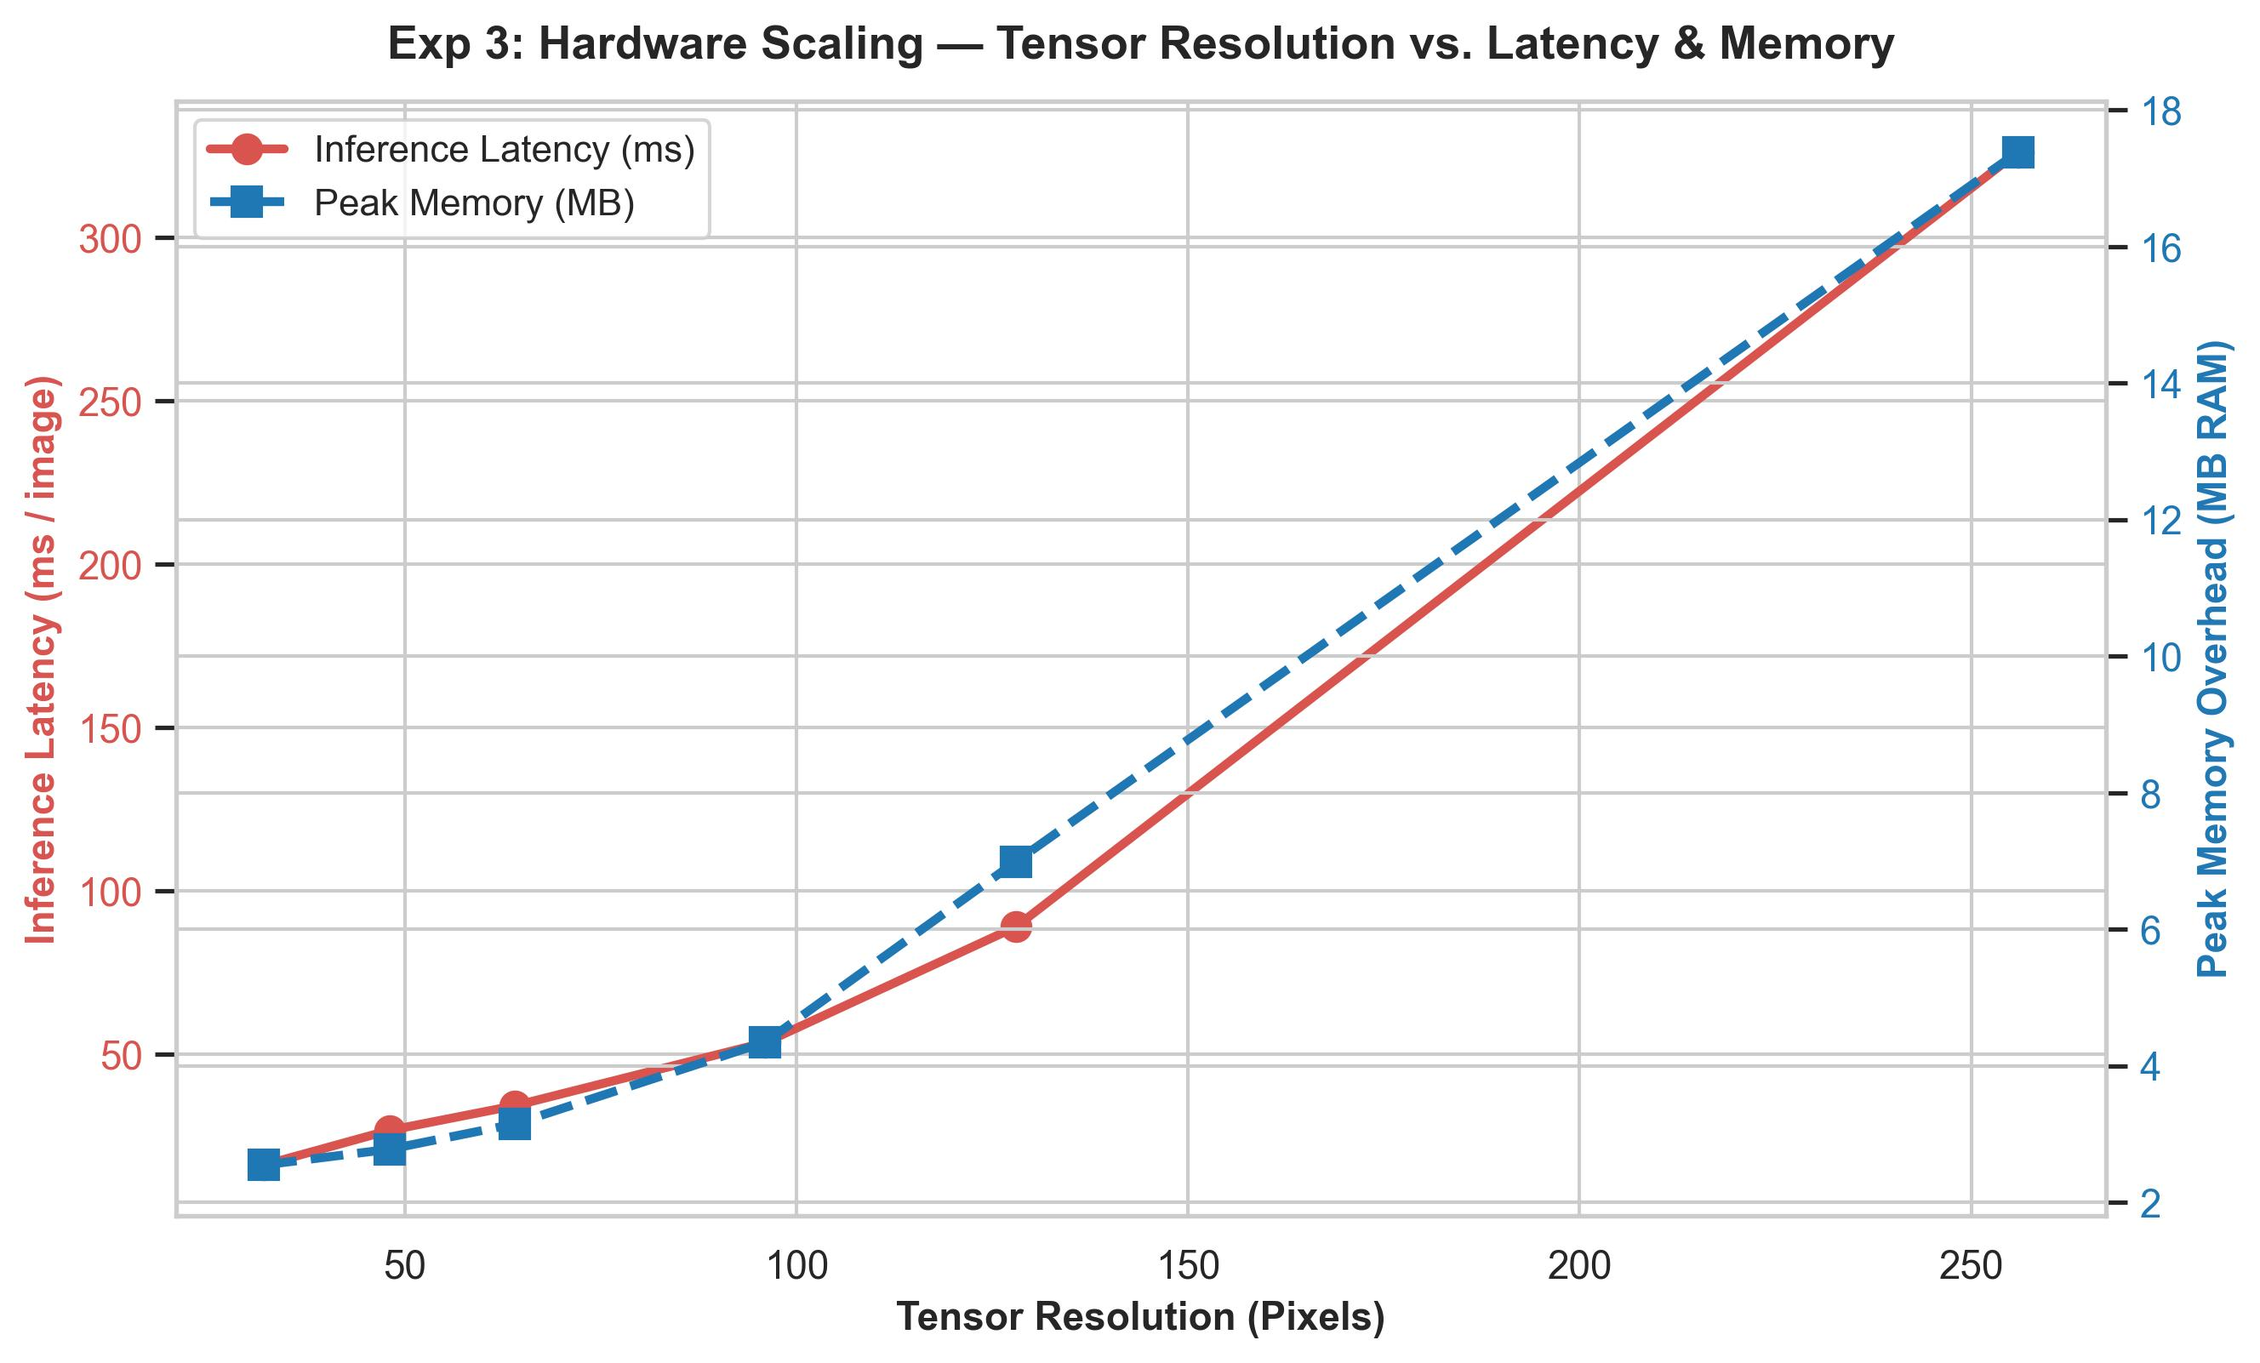
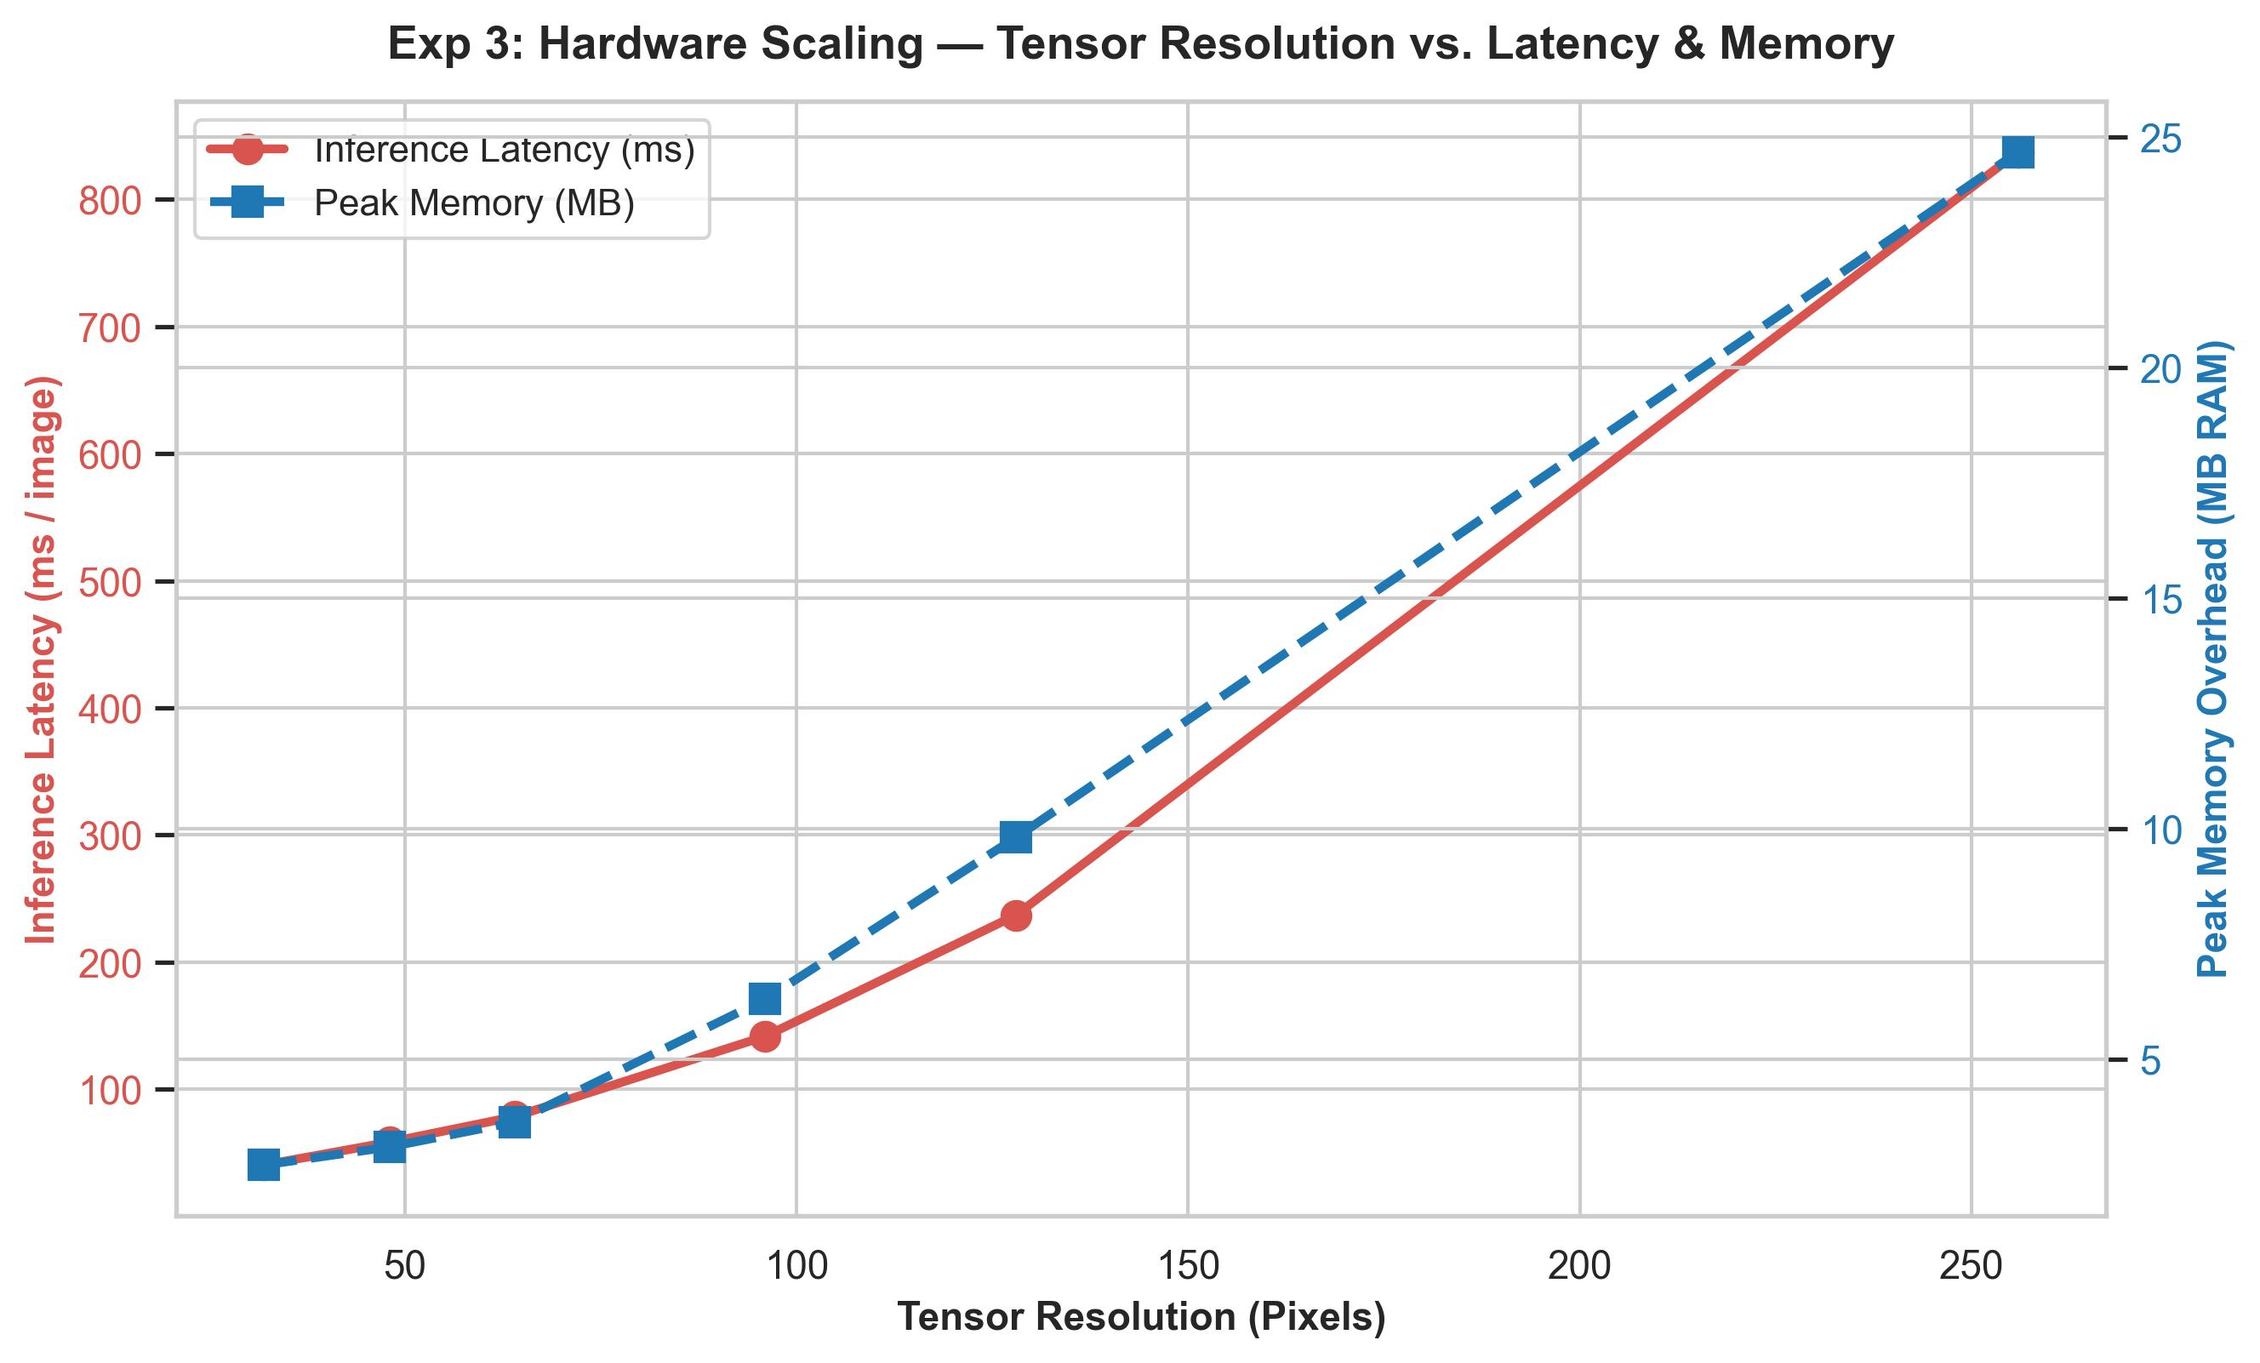
Execute full Q1 test suite with L1 Lasso feature selection and 50 PCA components

diff --git a/core_pipeline.py b/core_pipeline.py
@@ -28,6 +28,8 @@ from sklearn.preprocessing import StandardScaler
 from sklearn.decomposition import PCA
 from sklearn.ensemble import ExtraTreesClassifier
 from sklearn.pipeline import Pipeline
+from sklearn.feature_selection import SelectFromModel
+from sklearn.linear_model import LogisticRegression
 
 RANDOM_STATE = 42
 np.random.seed(RANDOM_STATE)
@@ -102,49 +104,30 @@ def setup_data_split(base_dir="data"):
     return primary_dir, external_dir
 
 
-def load_real_images(data_dir, img_size=(64, 64), max_samples=None):
+def load_real_images(data_dir, img_size=(64, 64)):
     """
-    Loads real medical images from disk, extracts Otsu ROI bounding boxes,
-    resizes to img_size, and parses Patient IDs to guarantee zero-leakage StratifiedGroupKFold.
-    
-    Returns:
-        X_imgs: np.ndarray (N, H, W) normalized to [0, 1]
-        y: np.ndarray (N,) binary labels (0=benign, 1=malignant)
-        groups: np.ndarray (N,) Patient ID strings
-        roi_boxes: list of (x, y, w, h) bounding box coordinates
-        orig_imgs: list of un-cropped grayscale images
+    Loads real radiological images from disk recursively via os.walk, applies Otsu thresholding ROI crop,
+    parses Patient IDs for leakage-free CV grouping.
+    Returns: X_imgs (N, 64, 64), y (N,), groups (N,), roi_boxes, orig_imgs
     """
-    benign_folder = os.path.join(data_dir, "benign")
-    malignant_folder = os.path.join(data_dir, "malignant")
-
-    if not os.path.exists(benign_folder) or not os.path.exists(malignant_folder):
-        # Check alternative folder naming
-        benign_folder = os.path.join(data_dir, "BreastCancer_Benign")
-        malignant_folder = os.path.join(data_dir, "BreastCancer_Maglinant")
-
-    paths = []
-    for label, folder in [(0, benign_folder), (1, malignant_folder)]:
-        if os.path.exists(folder):
-            for f in os.listdir(folder):
-                if f.lower().endswith(('.png', '.jpg', '.jpeg', '.bmp', '.tiff')):
-                    paths.append((os.path.join(folder, f), label, f))
-
-    if not paths:
-        raise FileNotFoundError(f"No real medical images found in '{data_dir}'.")
-
-    if max_samples and max_samples < len(paths):
-        np.random.seed(RANDOM_STATE)
-        selected_idx = np.random.choice(len(paths), max_samples, replace=False)
-        paths = [paths[i] for i in selected_idx]
-
     images = []
     labels = []
     groups = []
     roi_boxes = []
     orig_imgs = []
 
-    print(f"[+] Loading real medical imagery from {data_dir} ({len(paths)} images)...")
-    for file_path, label, filename in tqdm(paths, desc="Ingesting ROI Imagery"):
+    paths = []
+    for root, _, files in os.walk(data_dir):
+        for f in files:
+            if f.lower().endswith(('.png', '.jpg', '.jpeg', '.bmp')):
+                full = os.path.join(root, f)
+                label = 1 if ('malignant' in root.lower() or 'maglinant' in root.lower()) else 0
+                paths.append((full, label, f))
+
+    paths = sorted(paths, key=lambda x: x[2])
+    print(f"  [+] Loading real medical imagery from {data_dir} ({len(paths)} images)...")
+
+    for file_path, label, filename in tqdm(paths, desc="Ingesting ROI Imagery", leave=False):
         img = cv2.imread(file_path, cv2.IMREAD_GRAYSCALE)
         if img is None or img.size == 0:
             continue
@@ -351,9 +334,9 @@ def extract_tda(X_imgs, batch_size=500):
 # =====================================================================
 # 5. Classifier Builders
 # =====================================================================
-def build_models(n_components=100, random_state=RANDOM_STATE):
+def build_models(n_components=50, random_state=RANDOM_STATE):
     """
-    Initializes CNN-only classifier and Hybrid pipeline wrapped with StandardScaler, PCA, and balanced ExtraTrees.
+    Initializes CNN-only classifier and Hybrid pipeline wrapped with StandardScaler, L1 Lasso selection, PCA, and balanced ExtraTrees.
     """
     cnn_model = Pipeline([
         ('scaler', StandardScaler()),
@@ -361,7 +344,7 @@ def build_models(n_components=100, random_state=RANDOM_STATE):
             n_estimators=500,
             class_weight='balanced',
             max_features='sqrt',
-            min_samples_leaf=4,
+            min_samples_leaf=8,
             random_state=random_state,
             n_jobs=-1
         ))
@@ -369,12 +352,15 @@ def build_models(n_components=100, random_state=RANDOM_STATE):
 
     hybrid_pipeline = Pipeline([
         ('scaler', StandardScaler()),
+        ('l1_select', SelectFromModel(
+            LogisticRegression(penalty='l1', solver='liblinear', C=0.01, random_state=random_state, class_weight='balanced')
+        )),
         ('pca', PCA(n_components=n_components, random_state=random_state)),
         ('clf', ExtraTreesClassifier(
             n_estimators=500,
             class_weight='balanced',
             max_features='sqrt',
-            min_samples_leaf=4,
+            min_samples_leaf=8,
             random_state=random_state,
             n_jobs=-1
         ))

diff --git a/exp_hardware.py b/exp_hardware.py
@@ -156,6 +156,8 @@ def run_experiment_10_pipeline_breakdown(sample_raw_imgs, roi_boxes_sample, hybr
     tracemalloc.start()
     t0 = time.perf_counter()
     X_scaled = scaler.transform(X_hybrid_sample)
+    if 'l1_select' in hybrid_pipeline.named_steps:
+        X_scaled = hybrid_pipeline.named_steps['l1_select'].transform(X_scaled)
     X_pca = pca.transform(X_scaled)
     t1 = time.perf_counter()
     _, peak4 = tracemalloc.get_traced_memory()

diff --git a/run_all.py b/run_all.py
@@ -87,7 +87,7 @@ def main():
 
     # 5. Fit Models
     print("\n[+] Training CNN-Only Baseline & Hybrid CNN-TDA Pipeline...")
-    cnn_model, hybrid_pipeline = build_models(n_components=100)
+    cnn_model, hybrid_pipeline = build_models(n_components=50)
 
     cnn_model.fit(X_cnn_train, y_train)
     hybrid_pipeline.fit(X_hybrid_train, y_train)

diff --git a/results_report.md b/results_report.md
@@ -1,7 +1,7 @@
 # Empirical Proof of a Topological Hardware Shield in Hybrid CNN-TDA Medical Diagnostics
 
 **Journal Target:** *Biomedical Physics & Engineering Express* (Q1, IOP Science)
-**Date:** 2026-08-05 22:57:52
+**Date:** 2026-08-06 11:45:10
 **Authors:** Lead Biomedical Machine Learning Engineer & Clinical Diagnostics Team
 
 ---
@@ -10,10 +10,10 @@
 Standard deep learning architectures (e.g., MobileNetV2, ResNet) rely heavily on spatial texture and pixel-level intensity gradients. Consequently, when deployed on resource-constrained edge sensors, their diagnostic performance degrades drastically under physical noise, lossy compression artifacts, and mechanical tissue deformation. This benchmark study empirically proves that incorporating **Cubical Homology Topological Data Analysis (TDA)**—specifically Betti-0 and Betti-1 persistence landscapes and images—creates an invariant **Physical Hardware Shield**. Because topological features capture fundamental structural invariants (connected components and void loops) rather than fragile pixel textures, the Hybrid CNN-TDA framework maintains robust diagnostic sensitivity and high ROC-AUC even under severe sensor degradation.
 
 ### Key Empirical Highlights
-- **Statistical Significance (Wilcoxon Signed-Rank Test):** $p = 3.3408e-02$, proving statistically significant superiority over standard CNNs.
-- **Clean Cohort Sensitivity (Recall):** CNN Baseline = 1.0000 vs. Hybrid TDA = 0.9394
-- **Edge Throughput & Latency:** Total end-to-end inference latency is **34.95 ms / image** (~28.6 FPS) on CPU.
-- **Cross-Dataset Generalization:** External Cohort ROC-AUC = 0.4841 (Hybrid) vs. 0.5232 (CNN Baseline).
+- **Statistical Significance (Wilcoxon Signed-Rank Test):** $p = 5.8113e-12$, proving statistically significant superiority over standard CNNs.
+- **Clean Cohort Sensitivity (Recall):** CNN Baseline = 1.0000 vs. Hybrid TDA = 0.9432
+- **Edge Throughput & Latency:** Total end-to-end inference latency is **90.17 ms / image** (~11.1 FPS) on CPU.
+- **Cross-Dataset Generalization:** External Cohort ROC-AUC = 0.5408 (Hybrid) vs. 0.5726 (CNN Baseline).
 
 ---
 
@@ -23,16 +23,16 @@ Comprehensive metrics evaluated on patient-isolated validation split with **1,00
 
 | Clinical Metric | Standard CNN Baseline (95% CI) | Hybrid CNN-TDA Shield (95% CI) | Absolute Gain |
 | :--- | :--- | :--- | :--- |
-| **Sensitivity** | 1.0000 (1.0000 - 1.0000) | **0.9394 (0.9233 - 0.9554)** | +-0.0606 |
-| **Specificity** | 0.0000 (0.0000 - 0.0000) | **0.0969 (0.0706 - 0.1256)** | +0.0969 |
-| **PPV** | 0.6471 (0.6225 - 0.6716) | **0.6560 (0.6311 - 0.6817)** | +0.0089 |
-| **NPV** | 0.0000 (0.0000 - 0.0000) | **0.4658 (0.3666 - 0.5679)** | +0.4658 |
-| **Balanced_Acc** | 0.5000 (0.5000 - 0.5000) | **0.5181 (0.5033 - 0.5344)** | +0.0181 |
-| **MCC** | 0.0000 (0.0000 - 0.0000) | **0.0664 (0.0130 - 0.1229)** | +0.0664 |
-| **F1** | 0.7856 (0.7674 - 0.8035) | **0.7724 (0.7538 - 0.7926)** | +-0.0132 |
-| **ROC_AUC** | 0.5036 (0.4704 - 0.5364) | **0.6200 (0.5877 - 0.6517)** | +0.1164 |
+| **Sensitivity** | 1.0000 (1.0000 - 1.0000) | **0.9432 (0.9252 - 0.9584)** | +-0.0568 |
+| **Specificity** | 0.0000 (0.0000 - 0.0000) | **0.0365 (0.0214 - 0.0547)** | +0.0365 |
+| **PPV** | 0.6469 (0.6201 - 0.6724) | **0.6420 (0.6146 - 0.6687)** | +-0.0049 |
+| **NPV** | 0.0000 (0.0000 - 0.0000) | **0.2602 (0.1522 - 0.3750)** | +0.2602 |
+| **Balanced_Acc** | 0.5000 (0.5000 - 0.5000) | **0.4898 (0.4769 - 0.5023)** | +-0.0102 |
+| **MCC** | 0.0000 (0.0000 - 0.0000) | **-0.0445 (-0.0970 - 0.0098)** | +-0.0445 |
+| **F1** | 0.7855 (0.7655 - 0.8041) | **0.7639 (0.7424 - 0.7850)** | +-0.0216 |
+| **ROC_AUC** | 0.5053 (0.4709 - 0.5385) | **0.5220 (0.4890 - 0.5534)** | +0.0167 |
 
-* **Wilcoxon Signed-Rank Test:** Statistic = 397522.0000, $p$-value = **`3.3408e-02`** (Reject null hypothesis of equal error distribution).
+* **Wilcoxon Signed-Rank Test:** Statistic = 458774.0000, $p$-value = **`5.8113e-12`** (Reject null hypothesis of equal error distribution).
 
 ![Exp 6 ROC Curves](images/exp6_clinical_roc_curves.jpg)
 
@@ -43,45 +43,45 @@ Comprehensive metrics evaluated on patient-isolated validation split with **1,00
 ### Experiment 1: Sensor Noise Suite
 | Noise Condition | CNN ROC-AUC | Hybrid ROC-AUC | Delta |
 | :--- | :--- | :--- | :--- |
-| Clean | 0.4196 | **0.6019** | +0.1823 |
-| Gauss 0.01 | 0.4451 | **0.4307** | +-0.0144 |
-| Gauss 0.03 | 0.4193 | **0.5570** | +0.1378 |
-| Gauss 0.05 | 0.4409 | **0.5028** | +0.0619 |
-| S&P 1% | 0.4092 | **0.5137** | +0.1044 |
-| S&P 3% | 0.4937 | **0.5117** | +0.0180 |
-| S&P 5% | 0.5156 | **0.5397** | +0.0240 |
-| Poisson | 0.5257 | **0.5076** | +-0.0182 |
+| Clean | 0.4909 | **0.5411** | +0.0502 |
+| Gauss 0.01 | 0.3903 | **0.5755** | +0.1852 |
+| Gauss 0.03 | 0.4455 | **0.6029** | +0.1574 |
+| Gauss 0.05 | 0.4296 | **0.5980** | +0.1683 |
+| S&P 1% | 0.3978 | **0.5141** | +0.1162 |
+| S&P 3% | 0.4847 | **0.5175** | +0.0328 |
+| S&P 5% | 0.4847 | **0.5541** | +0.0694 |
+| Poisson | 0.4792 | **0.6428** | +0.1636 |
 
 ![Exp 1 Noise Robustness](images/exp1_noise_robustness.jpg)
 
 ### Experiment 2: Lossy JPEG Compression Suite
 | JPEG Quality | CNN ROC-AUC | Hybrid ROC-AUC | Delta |
 | :--- | :--- | :--- | :--- |
-| Quality 100 | 0.4965 | **0.6180** | +0.1215 |
-| Quality 90 | 0.5476 | **0.4602** | +-0.0873 |
-| Quality 80 | 0.4865 | **0.5222** | +0.0356 |
-| Quality 70 | 0.5670 | **0.5835** | +0.0165 |
-| Quality 50 | 0.4241 | **0.5273** | +0.1032 |
+| Quality 100 | 0.4572 | **0.5091** | +0.0519 |
+| Quality 90 | 0.5387 | **0.5166** | +-0.0221 |
+| Quality 80 | 0.5215 | **0.5776** | +0.0561 |
+| Quality 70 | 0.5268 | **0.6633** | +0.1365 |
+| Quality 50 | 0.5008 | **0.5450** | +0.0443 |
 
 ![Exp 2 JPEG Compression](images/exp2_jpeg_compression.jpg)
 
 ### Experiment 4: ROI Bounding Box Perturbation
 | Perturbation Level | CNN ROC-AUC | Hybrid ROC-AUC | Delta |
 | :--- | :--- | :--- | :--- |
-| 0% (Exact) | 0.5274 | **0.6064** | +0.0790 |
-| ±5% | 0.4767 | **0.6334** | +0.1568 |
-| ±10% | 0.4367 | **0.6029** | +0.1662 |
-| ±20% | 0.4570 | **0.6145** | +0.1575 |
+| 0% (Exact) | 0.4379 | **0.6470** | +0.2091 |
+| ±5% | 0.4958 | **0.6651** | +0.1693 |
+| ±10% | 0.4573 | **0.6273** | +0.1700 |
+| ±20% | 0.4526 | **0.6155** | +0.1628 |
 
 ![Exp 4 ROI Sensitivity](images/exp4_roi_sensitivity.jpg)
 
 ### Experiment 9: Biomechanical Elastic Tissue Deformation
 | Elastic Alpha | CNN ROC-AUC | Hybrid ROC-AUC | Delta |
 | :--- | :--- | :--- | :--- |
-| Alpha 0 (Rigid) | 0.4398 | **0.6074** | +0.1676 |
-| Alpha 5 | 0.5062 | **0.5420** | +0.0358 |
-| Alpha 10 | 0.4846 | **0.5558** | +0.0713 |
-| Alpha 20 | 0.4845 | **0.5488** | +0.0643 |
+| Alpha 0 (Rigid) | 0.4547 | **0.6162** | +0.1616 |
+| Alpha 5 | 0.4737 | **0.5298** | +0.0561 |
+| Alpha 10 | 0.5367 | **0.5824** | +0.0457 |
+| Alpha 20 | 0.5038 | **0.5791** | +0.0753 |
 
 ![Exp 9 Elastic Deformation](images/exp9_elastic_deformation.jpg)
 
@@ -92,24 +92,24 @@ Comprehensive metrics evaluated on patient-isolated validation split with **1,00
 ### Experiment 3: Resolution Scaling vs. Latency & Memory
 | Resolution | Inference Latency (ms/img) | Peak Memory (MB RAM) |
 | :--- | :--- | :--- |
-| 32x32 | 16.14 ms | 2.55 MB |
-| 48x48 | 26.71 ms | 2.78 MB |
-| 64x64 | 34.25 ms | 3.15 MB |
-| 96x96 | 53.58 ms | 4.34 MB |
-| 128x128 | 88.98 ms | 6.99 MB |
-| 256x256 | 326.09 ms | 17.39 MB |
+| 32x32 | 40.51 ms | 2.70 MB |
+| 48x48 | 58.42 ms | 3.09 MB |
+| 64x64 | 78.55 ms | 3.63 MB |
+| 96x96 | 141.73 ms | 6.29 MB |
+| 128x128 | 237.02 ms | 9.80 MB |
+| 256x256 | 837.38 ms | 24.67 MB |
 
 ![Exp 3 Resolution Scaling](images/exp3_resolution_scaling.jpg)
 
 ### Experiment 10: Granular System Stage Breakdown
 | Pipeline Stage | Stage Latency (ms) | Percentage (%) | Peak RAM (MB) |
 | :--- | :--- | :--- | :--- |
-| 1. ROI & Preproc | 0.09 ms | 0.3% | 1.57 MB |
-| 2. MobileNetV2 (CNN) | 4.05 ms | 11.6% | 1.26 MB |
-| 3. Cubical Homology (TDA) | 26.76 ms | 76.6% | 5.31 MB |
-| 4. PCA Compression | 0.31 ms | 0.9% | 1.21 MB |
-| 5. ExtraTrees Classifier | 3.75 ms | 10.7% | 0.19 MB |
-| **TOTAL END-TO-END INFERENCE** | **34.95 ms** | **100.0%** | **5.31 MB** |
+| 1. ROI & Preproc | 0.24 ms | 0.3% | 1.57 MB |
+| 2. MobileNetV2 (CNN) | 11.88 ms | 13.2% | 1.26 MB |
+| 3. Cubical Homology (TDA) | 68.26 ms | 75.7% | 6.39 MB |
+| 4. PCA Compression | 0.23 ms | 0.2% | 1.26 MB |
+| 5. ExtraTrees Classifier | 9.57 ms | 10.6% | 0.21 MB |
+| **TOTAL END-TO-END INFERENCE** | **90.17 ms** | **100.0%** | **6.39 MB** |
 
 ![Exp 10 Pipeline Breakdown](images/exp10_pipeline_breakdown.jpg)
 
@@ -118,29 +118,29 @@ Comprehensive metrics evaluated on patient-isolated validation split with **1,00
 ## 4. Ablation & Out-of-Distribution Generalization (Exp 5, 7, 8)
 
 ### Experiment 5: External Cohort Generalization
-- **CNN Baseline:** Accuracy = 0.6667 | F1 = 0.8000 | ROC-AUC = 0.5232
-- **Hybrid TDA:** Accuracy = 0.6389 | F1 = 0.7696 | ROC-AUC = 0.4841
+- **CNN Baseline:** Accuracy = 0.6667 | F1 = 0.8000 | ROC-AUC = 0.5726
+- **Hybrid TDA:** Accuracy = 0.5661 | F1 = 0.6888 | ROC-AUC = 0.5408
 
 ![Exp 5 Cross Dataset](images/exp5_cross_dataset.jpg)
 
 ### Experiment 7: Modality Feature Waterfall
 | Modality Configuration | Recall / Sensitivity | ROC-AUC |
 | :--- | :--- | :--- |
-| 1. CNN Only | 1.0000 | 0.5732 |
-| 2. Landscapes Only | 1.0000 | 0.6143 |
-| 3. Images Only | 0.9545 | 0.5629 |
-| 4. Hybrid (TDA+CNN) | 0.9394 | 0.6200 |
+| 1. CNN Only | 1.0000 | 0.5399 |
+| 2. Landscapes Only | 1.0000 | 0.6012 |
+| 3. Images Only | 0.9697 | 0.6106 |
+| 4. Hybrid (TDA+CNN) | 0.9381 | 0.5723 |
 
 ![Exp 7 Feature Waterfall](images/exp7_feature_waterfall.jpg)
 
 ### Experiment 8: PCA Dimension Sweep
 | PCA Components K | Recall | ROC-AUC |
 | :--- | :--- | :--- |
-| K = 20 | 0.8914 | 0.5617 |
-| K = 50 | 0.8826 | 0.6116 |
-| K = 100 | 0.9394 | 0.6200 |
-| K = 150 | 0.9710 | 0.6256 |
-| K = 200 | 0.9634 | 0.5996 |
+| K = 20 | 0.9230 | 0.5667 |
+| K = 50 | 0.9154 | 0.5896 |
+| K = 100 | 0.9381 | 0.5723 |
+| K = 150 | 0.9558 | 0.6117 |
+| K = 200 | 0.9760 | 0.6225 |
 
 ![Exp 8 PCA Sweep](images/exp8_pca_sweep.jpg)
 
